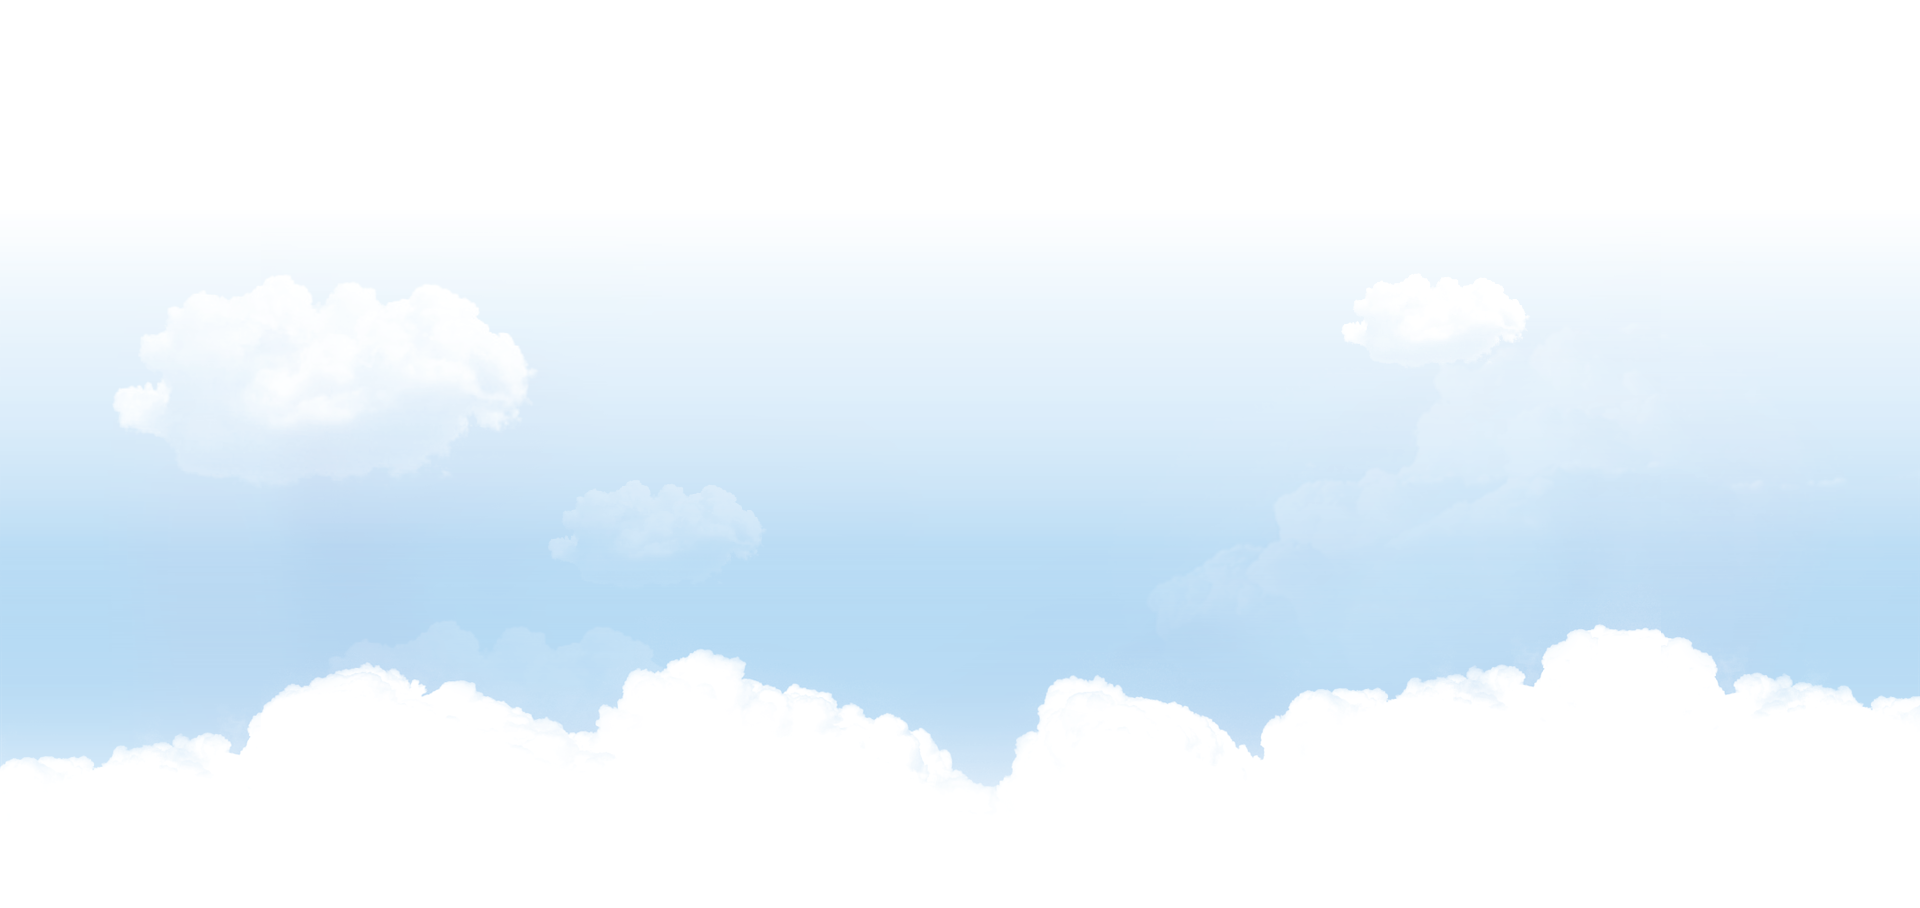
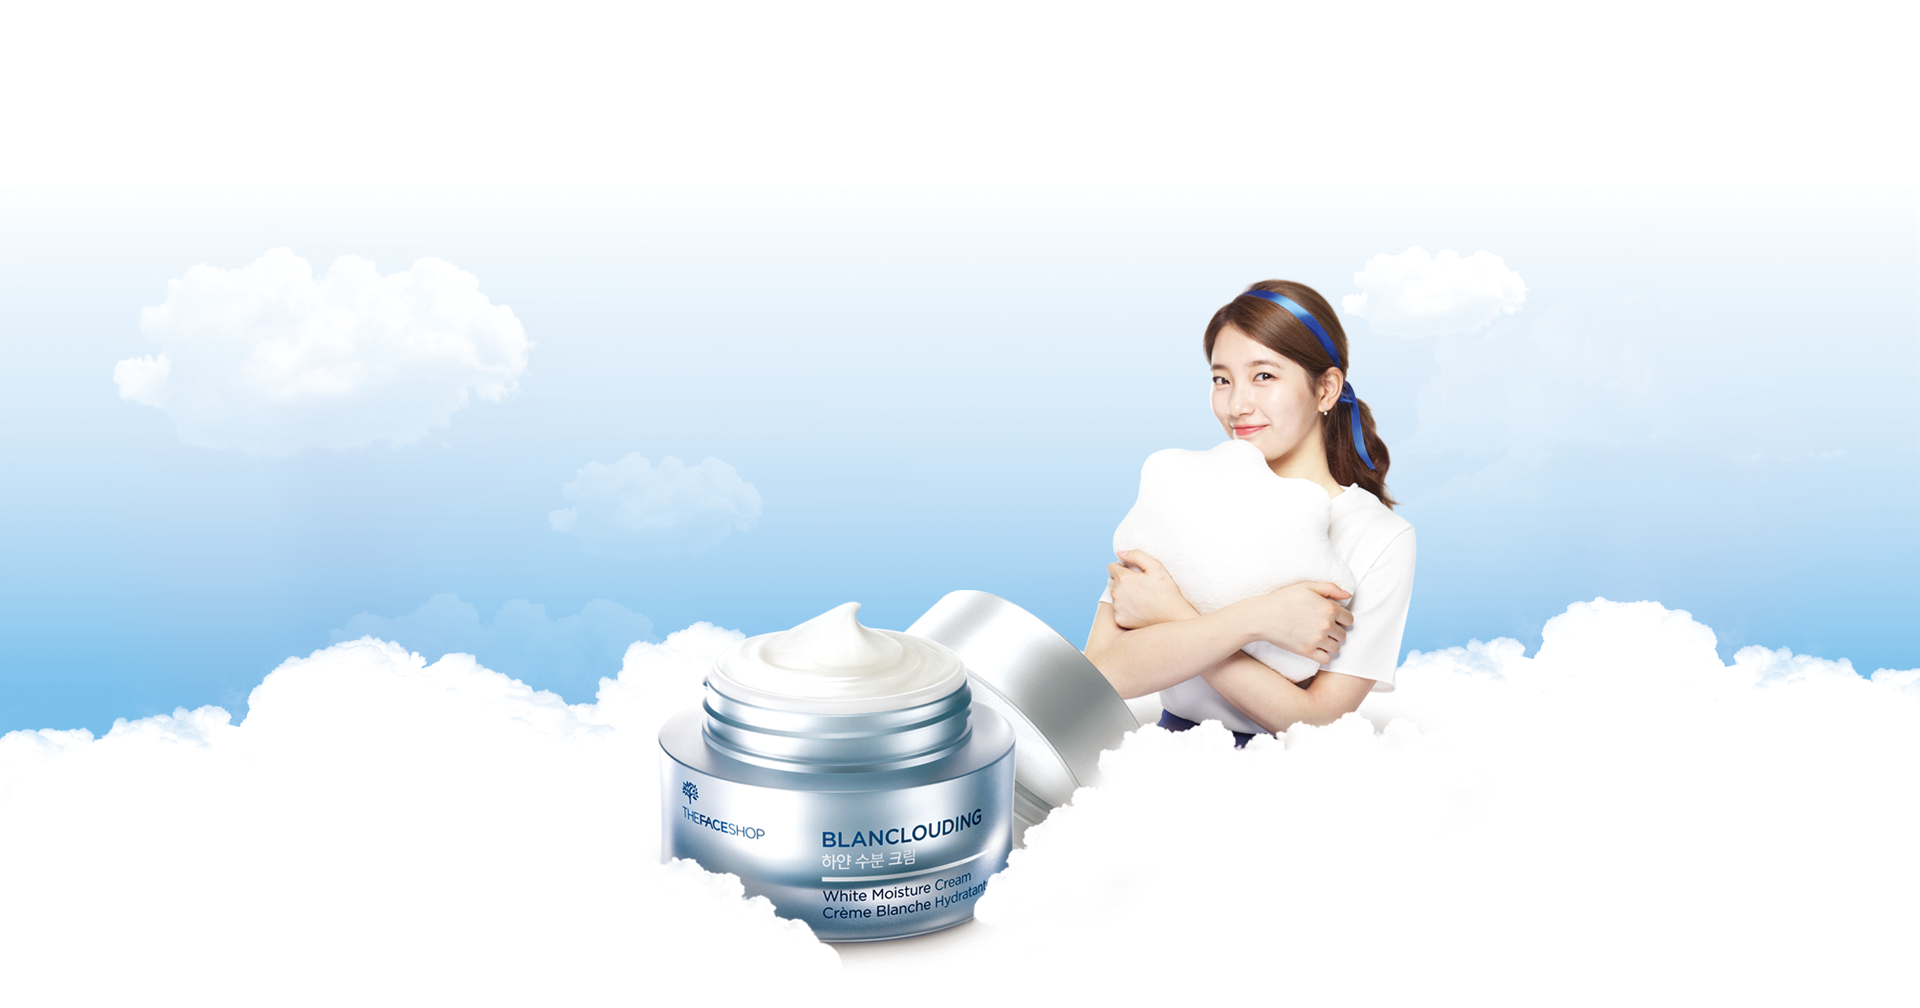
pc 메인 수정

Changed region(s): [[0.0, 0.2775, 1.0, 0.9559]]

diff --git a/PC/css/style.css b/PC/css/style.css
@@ -122,9 +122,9 @@
 	position: absolute;
 	left: 50%;
 	top:50%;
-	margin-top: -390px;
-	margin-left: -475px;
-	width: 950px;
+	margin-top: -350px;
+	margin-left: -450px;
+	width: 900px;
 	/*
 	height: 560px;
 	text-align: center;*/
@@ -132,8 +132,8 @@
 }
 .contents_wrap .area2 .product_group .product_area{
 	position:relative;
-	background:url(../images/event_txt.png) no-repeat center top;
-	height:781px;
+	background:url(../images/event_txt.png) no-repeat left top;
+	height:700px;
 }
 .contents_wrap .area2 .product_group .product_area a{
 	display:block;
